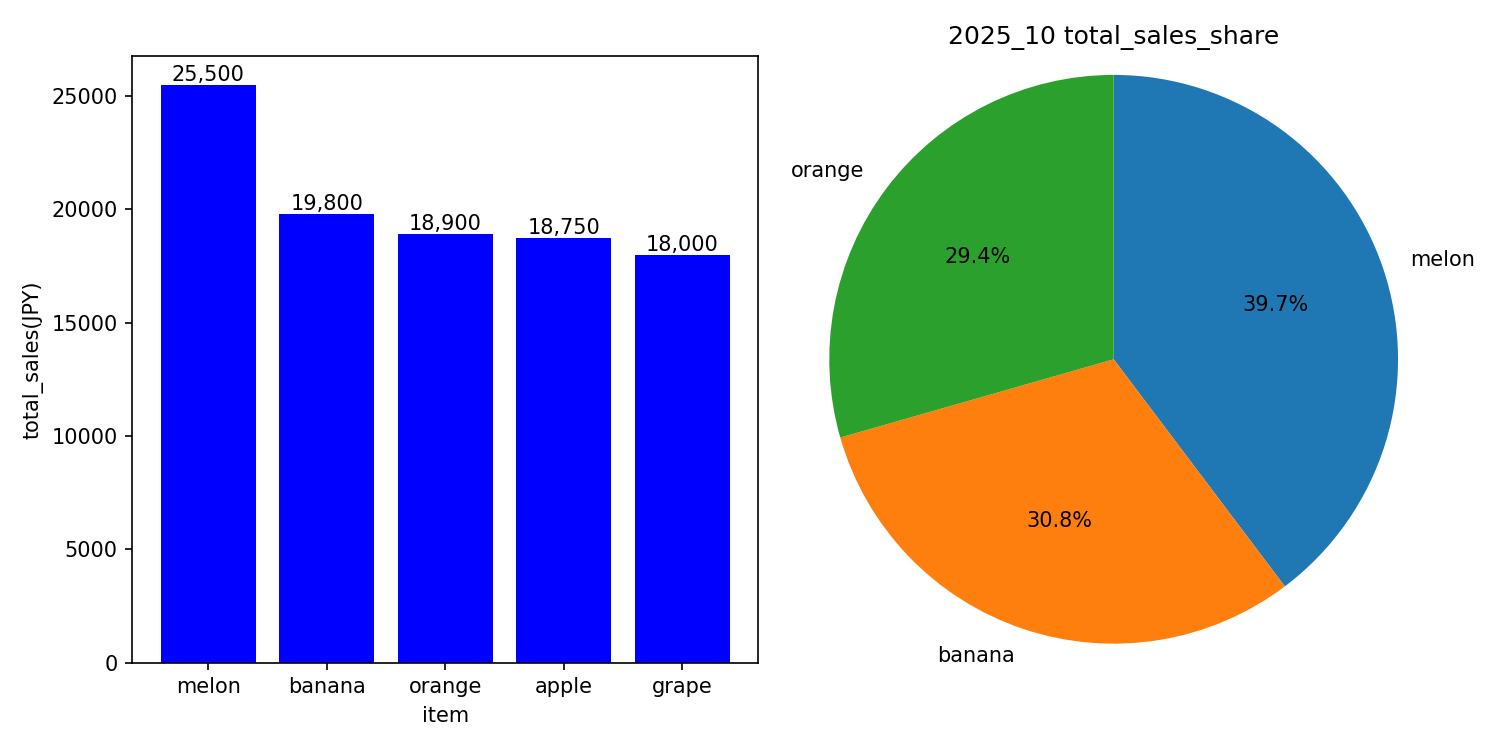
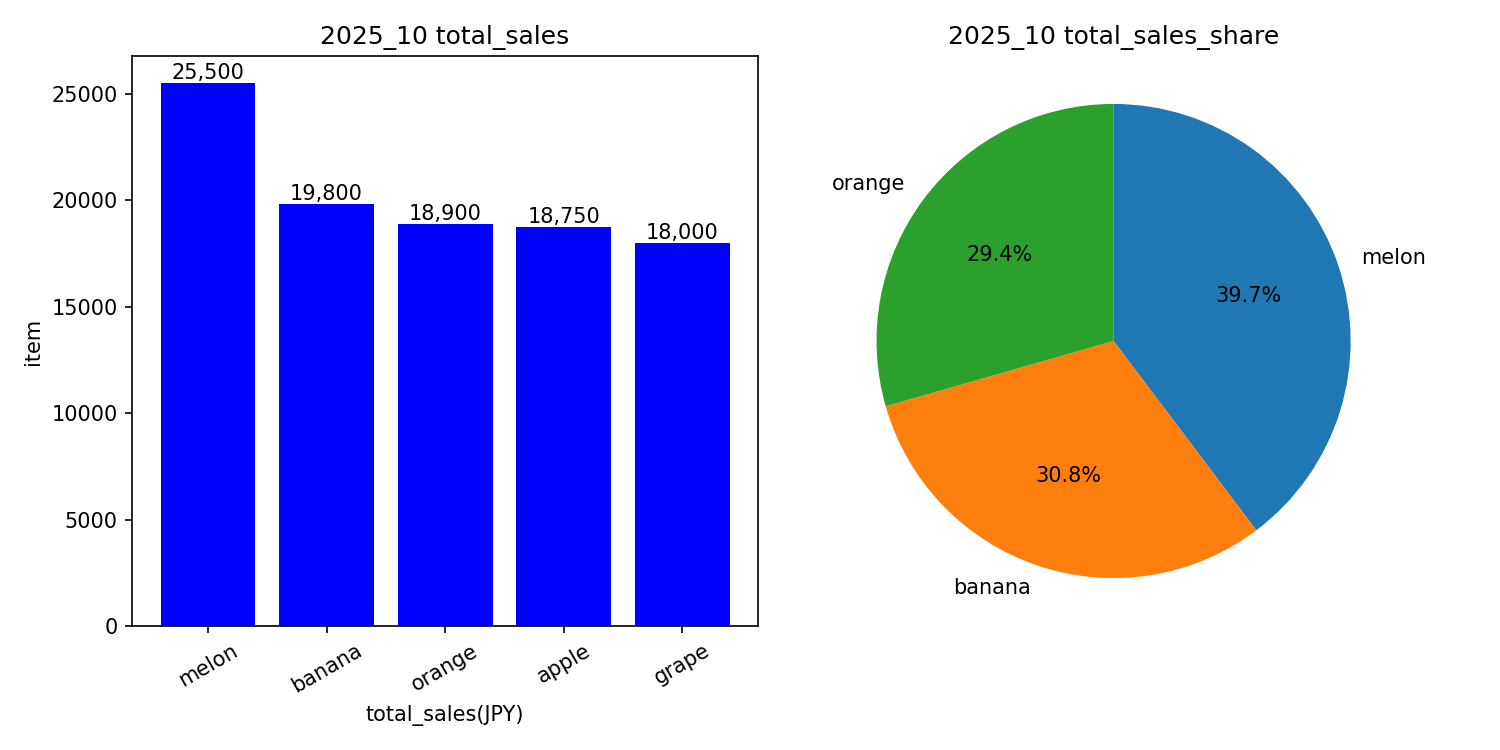
グラフ作成、次回、グラフのyラベルが表示されるようにする、誤字修正

diff --git a/basic_pandas_matplotlib/expense_report.py b/basic_pandas_matplotlib/expense_report.py
@@ -1,0 +1,53 @@
+import datetime as dt
+import pandas as pd
+from pathlib import Path
+import matplotlib.pyplot as plt
+
+# csvの読み込み処理
+csv_path = Path("expense.csv")
+df = pd.read_csv(csv_path)
+df["date"] = pd.to_datetime(df["date"])
+
+# 抽出したい年月（YYYY-MM）
+year_month = "2025-09"
+year,month = map(int, year_month.split("-"))
+
+# 年月のフィルタリング
+monthly = df[(df["date"].dt.year == year) & (df["date"].dt.month == month)]
+
+# 集計したいデータを引数に入れるとその値を返してくれる関数
+def categorize_sum(dataframe, category_str):
+    return dataframe.groupby(category_str)["amount"].sum().sort_values(ascending=False)
+
+category_sum = categorize_sum(monthly, "category").reset_index()
+payment_sum = categorize_sum(monthly, "payment").reset_index()
+
+category_sum.columns = ["category", "amount"]
+payment_sum.columns = ["payment", "amount"]
+
+print("\n=== Category Summary ===")
+print(category_sum)
+print("\n=== Payment Summary ===")
+print(payment_sum)
+
+daily_sum = monthly.groupby(monthly["date"].dt.day)["amount"].sum().sort_values(ascending=False).reset_index()
+
+daily_sum.columns = ["Date", "amount"]
+
+print("\n=== Daily Summary ===")
+print(daily_sum)
+
+# グラフの作成
+# categoryごと支出金額
+category_sum.plot(kind="bar")
+plt.title("category_summary")
+plt.xlabel("category")
+plt.ylabel("amount")
+plt.show()
+
+# 日別の支出額
+daily_sum.sort_index().plot(kind="line")
+plt.title("daily_summary")
+plt.xlabel("date")
+plt.ylabel("amout")
+plt.show()

diff --git a/basic_pandas_matplotlib/method_day12.py b/basic_pandas_matplotlib/method_day12.py
@@ -63,7 +63,7 @@ for csv_path in csv_files:
         top_idx              = df["total"].idxmax()
         top_sales_item_name  = str(df.loc[top_idx, "item"])
         top_sales_item_total = float(df.loc[top_idx, "total"])
-        top_share_item_rate  = round((top_sales_item_total)/ total_sales / 100, 1)
+        top_share_item_rate  = round(top_sales_item_total / total_sales * 100, 1)
     else:
         top_sales_item_name, top_sales_item_total, top_sales_item_rate = "-", 0.0, 0.0
         
@@ -144,7 +144,7 @@ for csv_path in csv_files:
     plt.close(fig)
 
     # コメントテキスト出力
-    plt.savefig(out_dir / f"comment_{data_lavel}.txt").write_text(ai_comment, encoding="utf-8")
+    (out_dir / f"comment_{data_lavel}.txt").write_text(ai_comment, encoding="utf-8")
 
     # Excel出力（明細＋サマリー
     monthly_tabel = pd.concat([df, summary_tail], ignore_index=False)
@@ -178,4 +178,4 @@ summary_df["mom_percent"] = (
 )
 
 # CSV保存(Execlで開きやすいようにutf-8-sig)
-summary_df.to_csv(out_root / "summary_all_monthly", index=False, encoding="utf-8-sing")
+summary_df.to_csv(out_root / "summary_all_monthly.csv", index=False, encoding="utf-8-sig")
